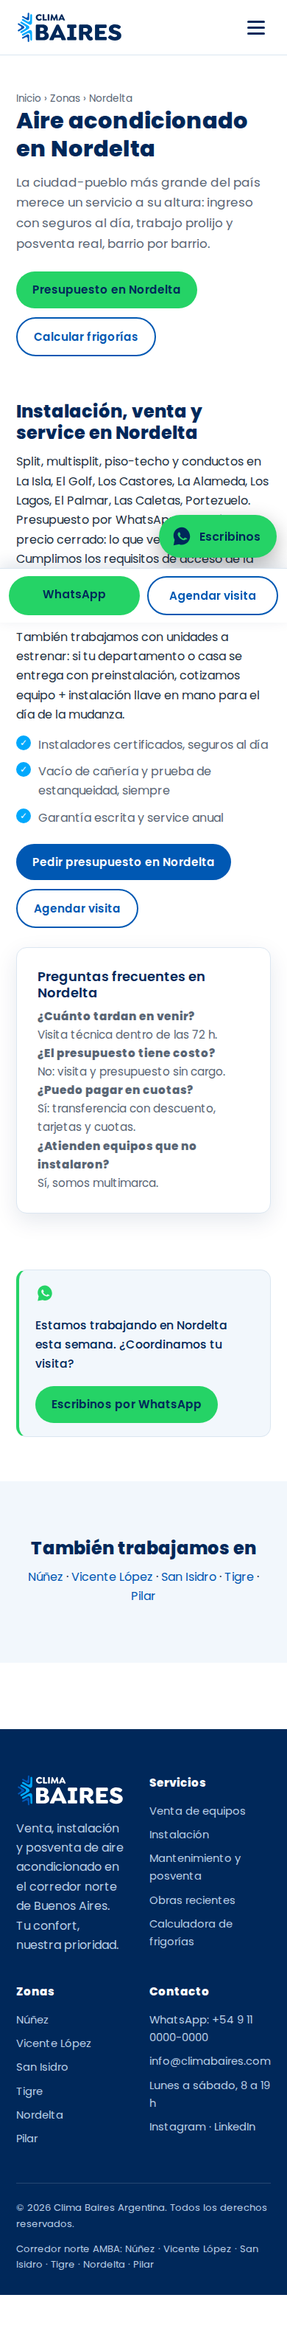
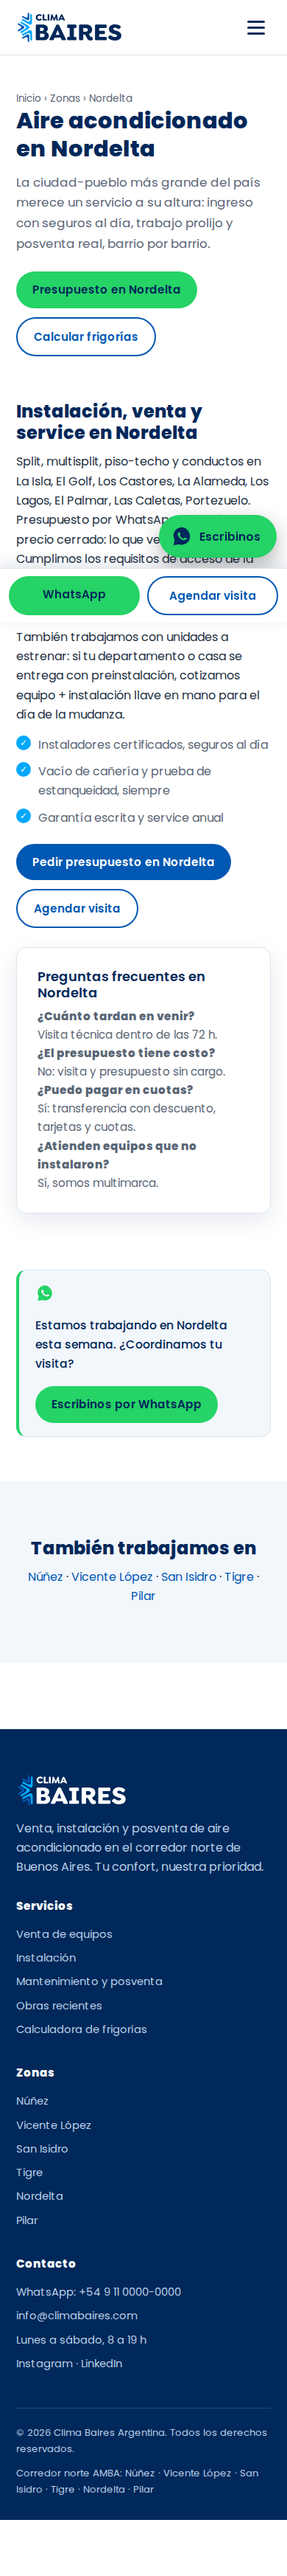
Sin desborde horizontal en pantallas de 320 px
El pie en dos columnas y los hijos de la banda CTA no bajaban de su ancho
mínimo: en un iPhone SE la página se movía 17 px de lado. El pie y los claims
pasan a una columna bajo 400 px y los hijos de la banda pueden encogerse.

Claude-Session: https://claude.ai/code/session_01UMXhTey5vCobBk23QC6J6a

diff --git a/web/assets/css/styles.css b/web/assets/css/styles.css
@@ -203,6 +203,8 @@ h3 { font-size: 1.12rem; font-weight: 600; }
   border-radius: var(--radio); color: #fff; padding: 46px 40px;
   display: flex; align-items: center; justify-content: space-between; gap: 26px; flex-wrap: wrap;
 }
+/* sin esto los hijos no bajan de su ancho mínimo y desbordan en pantallas de 320 px */
+.banda-cta > * { min-width: 0; }
 .banda-cta h2 { color: #fff; margin: 0; }
 .banda-cta p { color: #cfe8ff; margin-top: 6px; }
 
@@ -464,4 +466,11 @@ table.simple tr:nth-child(even) td { background: var(--hielo); }
 @media (max-width: 560px) {
   .franja-equipo { grid-template-columns: 1fr; }
   .antes-despues { grid-template-columns: 1fr; }
+}
+
+/* pantallas muy angostas (iPhone SE y similares): el pie en dos columnas
+   desbordaba a lo ancho */
+@media (max-width: 400px) {
+  .pie-grilla { grid-template-columns: 1fr; gap: 26px; }
+  .claims { grid-template-columns: 1fr; }
 }
